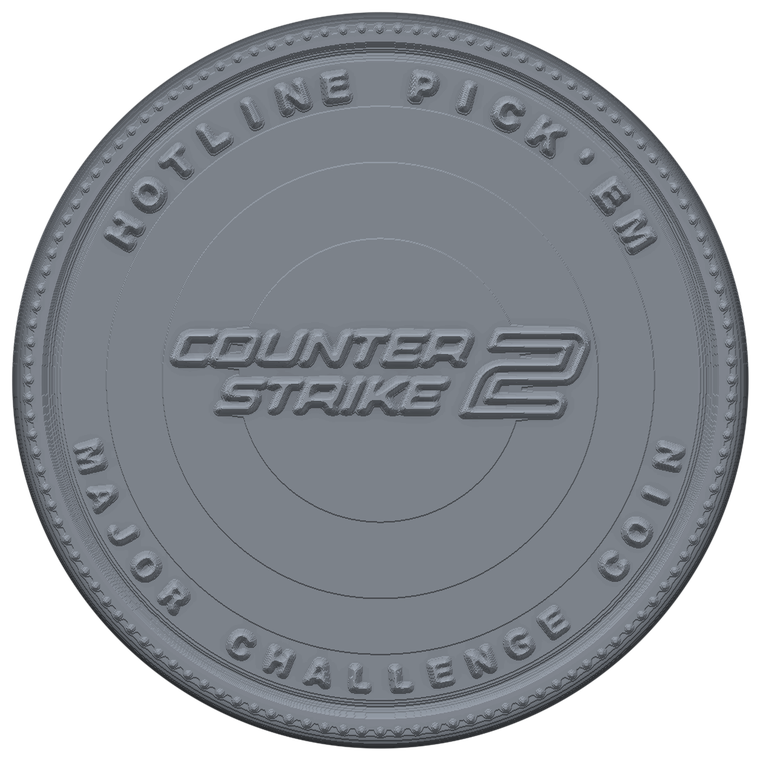
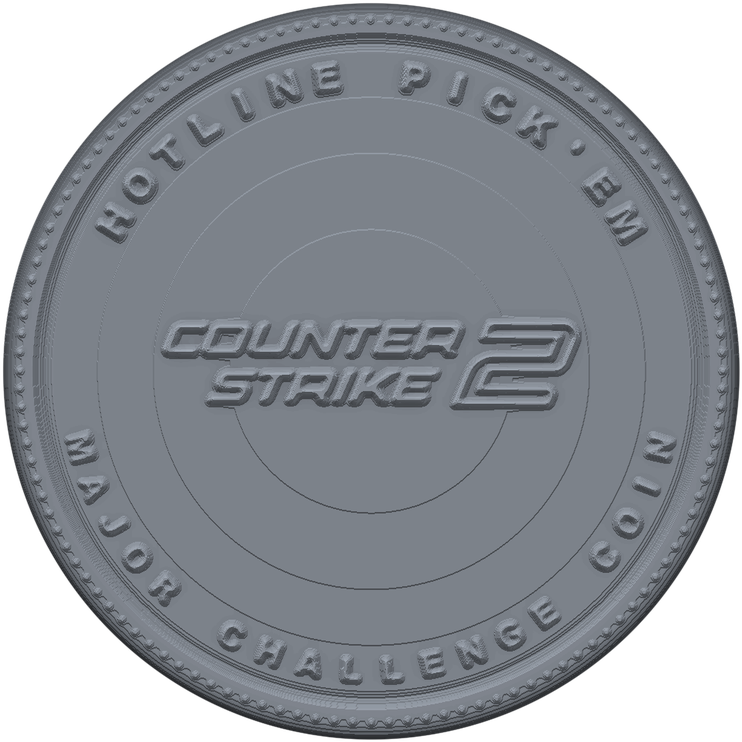
PHA-1278: fix coin edge — real cylinder rim, not an orbiting ring
Brandon: "the thickness seems to be an orbit instead of actually making a
3d coin." Spot on — the edge strips used rotateY(θ) translateZ(R), which
builds a ring in the horizontal plane (axis Y) while the faces point at
the camera (axis Z), so the rim orbited the coin.

- Edge now wraps the coin's OWN axis: each strip stands vertically at the
  rim via rotateZ(θ) translateX(R) rotateY(90deg) — a true milled cylinder
  wall connecting front and back. Reeds run across the thickness.
- Coin art cropped to the disc bounds so the face fills the frame and the
  rim sits flush at the edge (was ~3% transparent margin → a visible gap
  ring, part of the "orbit" look).

tsc + eslint clean; coin logic verify 31/31 unchanged.

diff --git a/src/components/heat/CoinInspector.tsx b/src/components/heat/CoinInspector.tsx
@@ -26,7 +26,10 @@ export function CoinInspector({
 }) {
   const DIAM = 300; // on-screen coin diameter (px)
   const THICK = 34; // coin thickness (px) — chunky, quarter-like
-  const radius = DIAM / 2;
+  // Rim sits flush at the disc edge (art is cropped to the disc, so the face
+  // radius IS DIAM/2). Tuck 1px so the reeded wall hugs the face instead of
+  // ringing it like an orbit.
+  const radius = DIAM / 2 - 1;
 
   const rot = useRef({ x: -12, y: 0 });
   const vel = useRef(0); // residual spin velocity (deg/frame)
@@ -91,7 +94,8 @@ export function CoinInspector({
 
   const front = coinArtSrc(coin.slug, coin.tier);
   const back = coinBackSrc(coin.tier);
-  const segW = Math.ceil((Math.PI * DIAM) / EDGE_SEGMENTS) + 2;
+  // Tangential length of each rim strip; +2px overlap so the wall has no seams.
+  const segLen = Math.ceil((2 * Math.PI * radius) / EDGE_SEGMENTS) + 2;
 
   return (
     <div className="coin-inspect-backdrop" onClick={onClose} role="dialog" aria-modal="true" aria-label={`Inspect ${coin.name} challenge coin`}>
@@ -124,15 +128,18 @@ export function CoinInspector({
                 <img src={back} alt="" width={DIAM} height={DIAM} draggable={false} />
                 <span className={`coin3d-shine ${coin.tier}`} aria-hidden="true" />
               </div>
-              {/* Knurled edge ring */}
+              {/* Reeded edge — a true cylinder wall about the coin's own (Z)
+                  axis: each strip stands vertically (height = thickness) at the
+                  rim and faces outward, so it reads as the coin's milled edge,
+                  not a ring orbiting it. */}
               {Array.from({ length: EDGE_SEGMENTS }).map((_, i) => (
                 <div
                   key={i}
                   className={`coin3d-edge ${coin.tier}`}
                   style={{
-                    width: segW,
-                    height: THICK,
-                    transform: `translate(-50%, -50%) rotateY(${(360 / EDGE_SEGMENTS) * i}deg) translateZ(${radius}px)`,
+                    width: THICK,
+                    height: segLen,
+                    transform: `translate(-50%, -50%) rotateZ(${(360 / EDGE_SEGMENTS) * i}deg) translateX(${radius}px) rotateY(90deg)`,
                   }}
                 />
               ))}

diff --git a/src/app/globals.css b/src/app/globals.css
@@ -971,11 +971,12 @@ main.shell.with-nav-action { padding-bottom: calc(152px + env(safe-area-inset-bo
 .coin3d-shine.bronze { background: linear-gradient(115deg, transparent 42%, rgba(255,230,200,0.24) 50%, transparent 58%); }
 .coin3d-edge {
   position: absolute; top: 50%; left: 50%;
-  /* Reeded (milled) edge like a quarter: crisp vertical ribs layered over a
-     top→bottom cylinder shade so the rim reads as rounded metal, not a flat band. */
+  /* Reeded (milled) edge like a quarter: ribs run across the thickness (spaced
+     around the rim → the strip's height), layered over a cross-thickness shade
+     (the strip's width) so the rim reads as rounded metal, not a flat band. */
   background-image:
-    repeating-linear-gradient(90deg, rgba(0,0,0,0.55) 0 1px, rgba(255,255,255,0.22) 1px 2.5px),
-    linear-gradient(to bottom, rgba(0,0,0,0.6) 0%, rgba(255,255,255,0.22) 46%, rgba(0,0,0,0.6) 100%);
+    repeating-linear-gradient(to bottom, rgba(0,0,0,0.55) 0 1px, rgba(255,255,255,0.22) 1px 2.5px),
+    linear-gradient(to right, rgba(0,0,0,0.6) 0%, rgba(255,255,255,0.22) 46%, rgba(0,0,0,0.6) 100%);
 }
 .coin3d-edge.diamond { background-color: #6c93b0; }
 .coin3d-edge.gold { background-color: #a87c22; }
